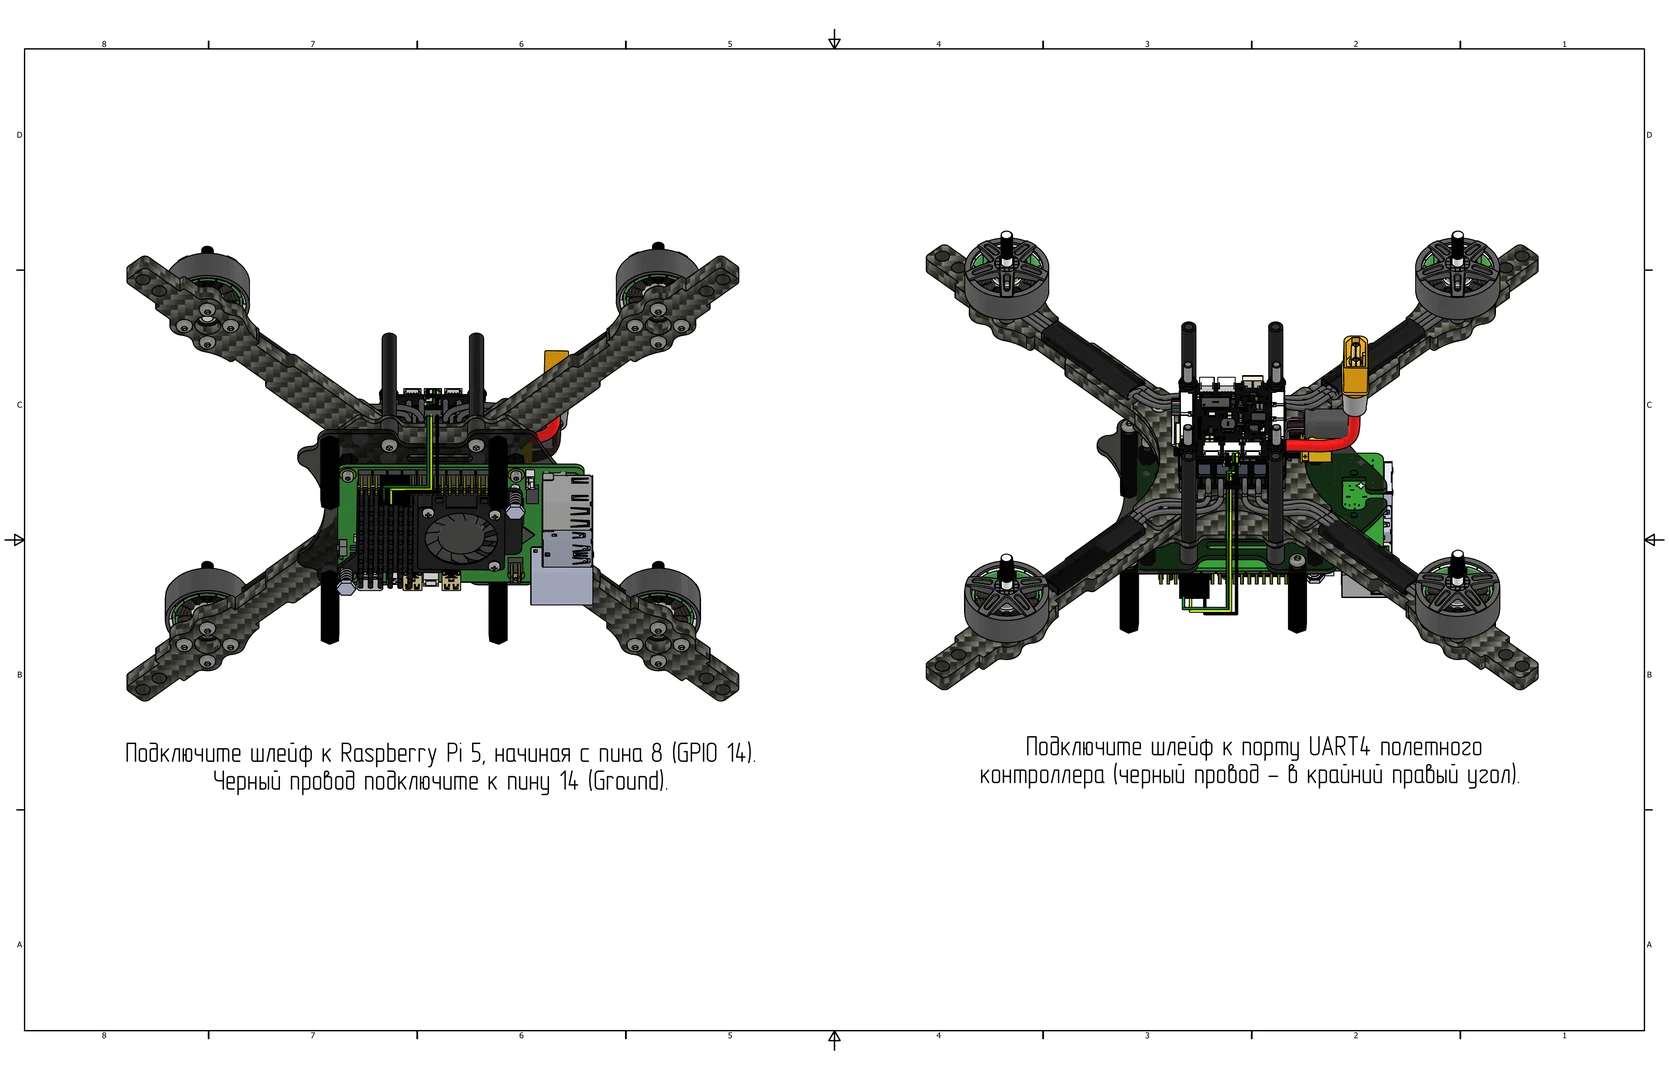
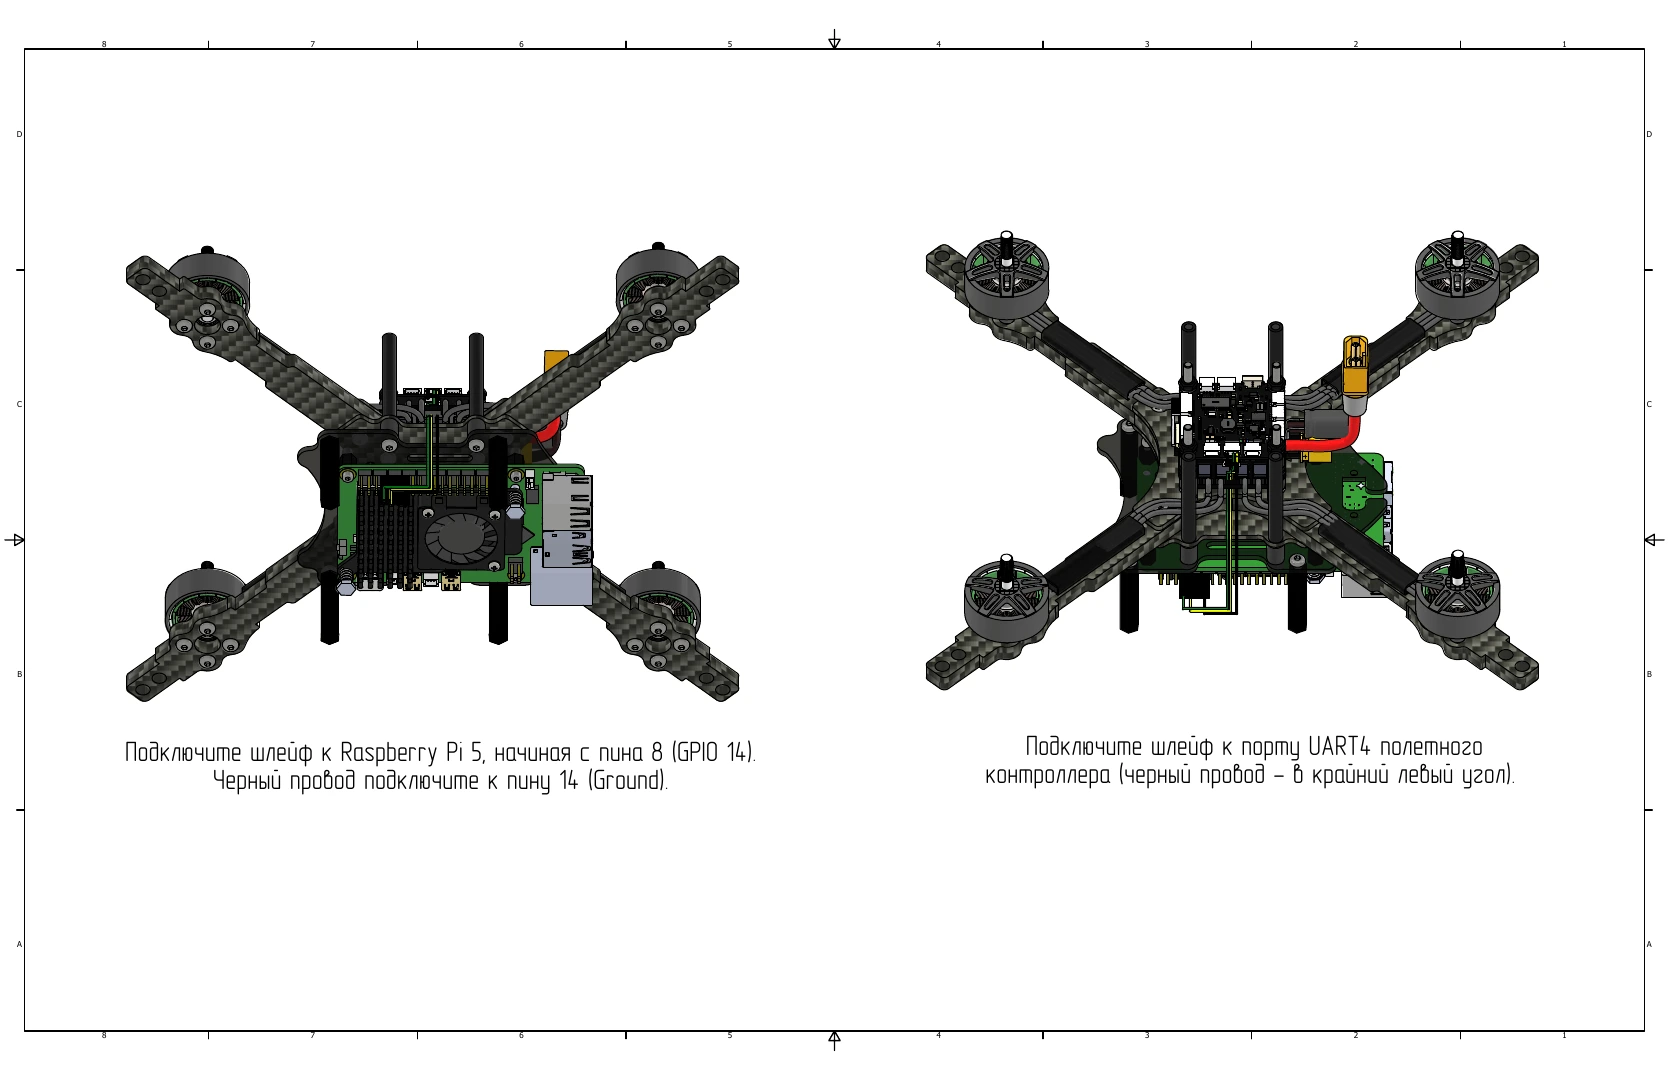
fix docs

diff --git a/docs/en/Setup/RPi.md b/docs/en/Setup/RPi.md
@@ -37,25 +37,22 @@ Writing the image will erase all data on the selected drive. Ensure you have bac
     <br>
 
 2. Select your downloaded image file. Once selected, the file name and size will appear in the window.
-   
 
-```{tip}
-If the image is in a supported archive format, you do not need to extract it manually.
-```
+    ```{tip}
+    If the image is in a supported archive format, you do not need to extract it manually.
+    ```
 
- <br>
-
-```{figure} @assets@/common/setup/rpi/etcher-image-selected.webp
-    :alt:  Selected image
+    ```{figure} @assets@/common/setup/rpi/etcher-image-selected.webp
+    :alt: Selected image
     :width: 90%
     :align: center
 
     Selected image
-```
+    ```
 
-<br>
+    <br>
 
-4. Click `Select target`. From the list of available drives, choose your microSD card and click `Select 1`. Verify that the drive name and capacity match your memory card.
+3. Click `Select target`. From the list of available drives, choose your microSD card and click `Select 1`. Verify that the drive name and capacity match your memory card.
 
     ```{figure} @assets@/common/setup/rpi/etcher-select-target.webp
     :alt: Selecting target drive
@@ -68,7 +65,7 @@ If the image is in a supported archive format, you do not need to extract it man
 
     <br>
 
-5. Review your selection one last time, then click `Flash!`. If prompted by your system, confirm the request for administrator privileges.
+4. Review your selection one last time, then click `Flash!`. If prompted by your system, confirm the request for administrator privileges.
 
     ```{figure} @assets@/common/setup/rpi/etcher-ready-to-flash.webp
     :alt: Ready to flash
@@ -80,7 +77,7 @@ If the image is in a supported archive format, you do not need to extract it man
 
     <br>
 
-6. Wait for the flashing and data verification processes to finish. Do not remove the memory card or disconnect the reader until both steps are fully complete.
+5. Wait for the flashing and data verification processes to finish. Do not remove the memory card or disconnect the reader until both steps are fully complete.
 
     ```{figure} @assets@/common/setup/rpi/etcher-flashing.webp
     :alt: Flashing the card
@@ -92,7 +89,7 @@ If the image is in a supported archive format, you do not need to extract it man
 
     <br>
 
-7. Once finished, a `Flash Completed!` message will appear on the screen.
+6. Once finished, a `Flash Completed!` message will appear on the screen.
 
     ```{figure} @assets@/common/setup/rpi/etcher-flash-completed.webp
     :alt: Flash completed message
@@ -104,4 +101,4 @@ If the image is in a supported archive format, you do not need to extract it man
 
     <br>
 
-8. Safely eject the memory card from your computer. Ensure your Raspberry Pi is powered off, then insert the memory card into its slot.
+7. Safely eject the memory card from your computer. Ensure your Raspberry Pi is powered off, then insert the memory card into its slot.

diff --git a/docs/ru/Assembly/Clover5Dev.md b/docs/ru/Assembly/Clover5Dev.md
@@ -568,7 +568,7 @@ table.assembly-fasteners td {
 
     <br>
 
-7. Подключите к Raspberry Pi 5 шлейф телеметрии. Подключение выполните во внешнюю линию гребенки, начиная с пина 8 (GPIO 14). Черный провод подключите к пину 14 (Ground) (см. [схему подключения](#clover5-dev-layout)). Ответную часть шлейфа подключите к порту UART4 полетного контроллера (черный провод — в крайний правый угол).
+7. Подключите к Raspberry Pi 5 шлейф телеметрии. Подключение выполните во внешнюю линию гребенки, начиная с пина 8 (GPIO 14). Черный провод подключите к пину 14 (Ground) (см. [схему подключения](#clover5-dev-layout)). Ответную часть шлейфа подключите к порту UART4 полетного контроллера (черный провод — в крайний левый угол).
 
     ```{figure} @assets@/ru/assembly/clover5-dev/RPI5_step_23.webp
     :alt: Установка Raspberry Pi

diff --git a/docs/ru/Assembly/Clover5.md b/docs/ru/Assembly/Clover5.md
@@ -545,7 +545,7 @@ table.assembly-fasteners td {
 
     <br>
 
-8. Подключите к Raspberry Pi 5 шлейф телеметрии. Подключение выполните во внешнюю линию гребенки, начиная с пина 8 (GPIO 14). Черный провод подключите к пину 14 (Ground) (см. [схему подключения](#clover5-layout)). Ответную часть шлейфа подключите к порту UART4 полетного контроллера (черный провод — в крайний правый угол).
+8. Подключите к Raspberry Pi 5 шлейф телеметрии. Подключение выполните во внешнюю линию гребенки, начиная с пина 8 (GPIO 14). Черный провод подключите к пину 14 (Ground) (см. [схему подключения](#clover5-layout)). Ответную часть шлейфа подключите к порту UART4 полетного контроллера (черный провод — в крайний левый угол).
     
     ```{figure} @assets@/ru/assembly/clover5/RPI_step_10.webp
     :alt: Установка Raspberry Pi

diff --git a/docs/en/Setup.md b/docs/en/Setup.md
@@ -19,7 +19,7 @@ To set up the {doc}`flight controller <Setup/QGC>`>, use the QGroundControl appl
 * Configure control peripherals and flight modes.
 * Define power parameters.
 
-## Configuring the Flight Controller
+## Configuring the Raspberry Pi
 
 * First, flash the system image onto a memory card for the {doc}`Raspberry Pi <Setup/RPi>`. 
 * Once powered, connect to the Raspberry Pi via Web IDE or SSH.
